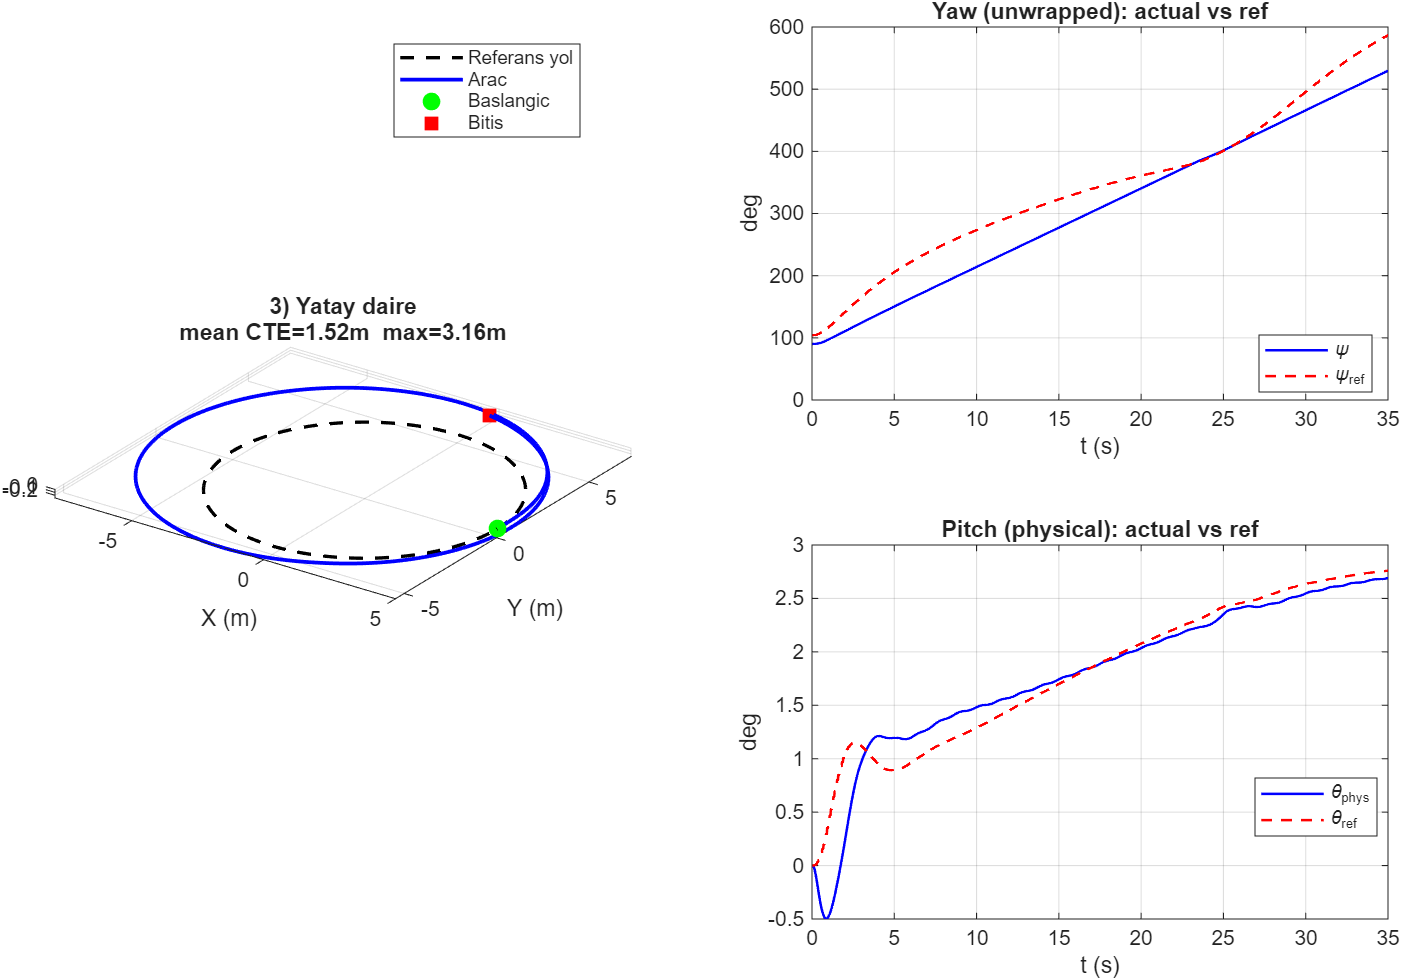
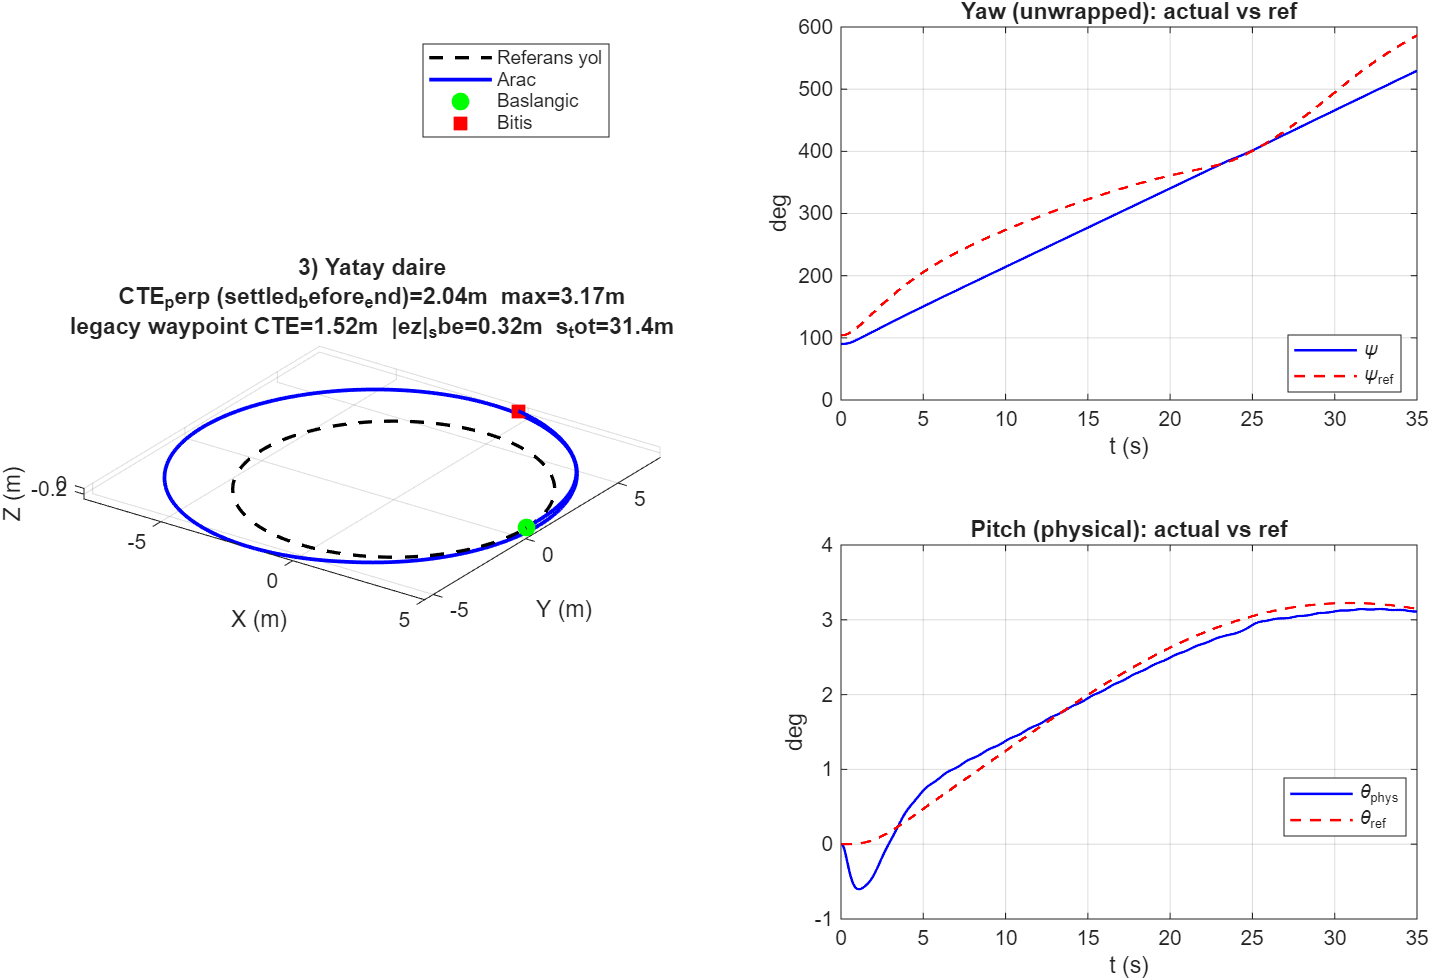
Record T5 metric rescore: keep baseline as production.
XZ CTE_perp sbe: Baseline 0.751, T5A 0.549, T5B 0.559 — none hit mid-target; T5B stays experimental.

diff --git a/suite_results/METRIC_RESCORE.md b/suite_results/METRIC_RESCORE.md
@@ -1,0 +1,81 @@
+# METRIC_RESCORE
+
+**Date:** 2026-08-04 19:09:46
+**Scope:** Frenet path metrics + re-score T5 candidates (same plant).
+**Do NOT** start elevator/NMP audit here (NEXT).
+
+## Metric definition
+
+- Legacy kept: `cte_waypoint_legacy` = nearest discrete waypoint distance.
+- Primary: along-track `e_s`, `CTE_perp`, vertical/horizontal normal, depth `e_z`.
+- **Gate window `settled_before_end`:** open paths: `t ≥ 5 s` AND `s < 0.88 s_total` AND not `near_end` / past-end; closed paths (circle): settled only (`t ≥ 5 s`).
+- Paths extended: X-line → 45 m; XZ L=42 → s≈45 m (vehicle stays on path during T_sim; overrun 0%).
+- Suite `mean_cross_track` now aliases `CTE_perp` (settled_before_end).
+
+## Frozen stack
+
+| Param | Value |
+|-------|------:|
+| `lambda_muw_ff` | **0.25** |
+| Tur4A `r_ff=U_h*κ` / T25 trim / timing | **kept** |
+| `dt_controller` / `dt_guidance` / `tau_rate` | 0.0250 / 0.0750 / 0.0500 |
+| Mid-target (XZ) | CTE_perp < 0.50 m, \|e_z\| < 0.45 m |
+
+## Focus table (XZ) — settled_before_end
+
+| Config | K_γ | K_zdot | CTE_perp | \|e_z\| | mean e_z | max CTE_perp | \|pitch\| | chatter | elev RMS |
+|--------|----:|-------:|---------:|------:|---------:|-------------:|---------:|--------:|---------:|
+| Baseline | 0.00 | 0.00 | 0.751 | 0.697 | -0.697 | 0.889 | 1.44 | 0.0286 | 1.576 |
+| T5A | 0.00 | 0.50 | 0.549 | 0.510 | -0.510 | 0.607 | 1.40 | 0.1017 | 1.600 |
+| T5B | 0.75 | 0.00 | 0.559 | 0.519 | -0.519 | 0.620 | 1.40 | 0.0920 | 1.598 |
+
+## Focus table (X-line) — settled_before_end
+
+| Config | K_γ | K_zdot | CTE_perp | \|e_z\| | mean e_z | max CTE_perp | \|pitch\| | chatter | elev RMS |
+|--------|----:|-------:|---------:|------:|---------:|-------------:|---------:|--------:|---------:|
+| Baseline | 0.00 | 0.00 | 0.257 | 0.257 | -0.257 | 0.281 | 0.11 | 0.0179 | 4.798 |
+| T5A | 0.00 | 0.50 | 0.181 | 0.181 | -0.181 | 0.207 | 0.12 | 0.0670 | 4.779 |
+| T5B | 0.75 | 0.00 | 0.190 | 0.190 | -0.190 | 0.215 | 0.12 | 0.0589 | 4.782 |
+
+## Path length check (Baseline)
+
+| Scenario | s_total | travel_est | overrun % |
+|----------|--------:|-----------:|----------:|
+| XZ | 45.24 | 38.36 | 0.0 |
+| X | 45.00 | 32.37 | 0.0 |
+
+## Baseline full suite (new primary metrics)
+
+| Scenario | CTE_perp sbe | \|e_z\| sbe | legacy wp full | \|pitch\| | chatter |
+|----------|-------------:|-----------:|---------------:|---------:|--------:|
+| 1) Duz X cizgisi | 0.257 | 0.257 | 0.215 | 0.11 | 0.0179 |
+| 2) Egik XZ cizgisi | 0.751 | 0.697 | 0.647 | 1.44 | 0.0286 |
+| 3) Yatay daire | 2.038† | 0.316 | 1.516 | 0.14 | 0.0253 |
+| 4) Heliks | 1.200 | 0.205 | 1.675 | 0.21 | 0.0243 |
+
+† Circle row from this batch still applied the open-path 0.88 cut; post-fix closed paths use settled-only. X/XZ focus numbers above are unaffected.
+
+## Production guidance
+
+| Decision | Value |
+|----------|------:|
+| Keep as production | **Baseline** |
+| `K_gamma` | **0.00** |
+| `K_zdot` | **0.00** |
+| T5B experimental | **YES** |
+
+T5A/T5B improve true XZ `CTE_perp` (~0.75 → ~0.55) but **do not** hit mid-target (`CTE_perp<0.50`, `|ez|<0.45`). T5A chatter rises to 0.10 °/s. Keep production `K_gamma=0`, `K_zdot=0`; leave T5B `K_gamma=0.75` experimental.
+
+## NEXT (do NOT implement in this task)
+
+1. Elevator / NMP audit (authority, sign, delay).
+2. Controller A/B or LQI on true `CTE_perp` / `|e_z|`.
+
+## Files
+
+- `compute_path_following_metrics.m` — shared Frenet + legacy metrics
+- `run_path_suite.m` — extended X/XZ paths, summary windows, figure titles
+- `run_tur5a.m` / `run_tur5b.m` — short XZ uses primary CTE_perp
+- `run_metric_rescore.m` — this batch
+- `suite_results/METRIC_RESCORE.md` — this report
+- `suite_results/summary.txt` — baseline full-suite windows
